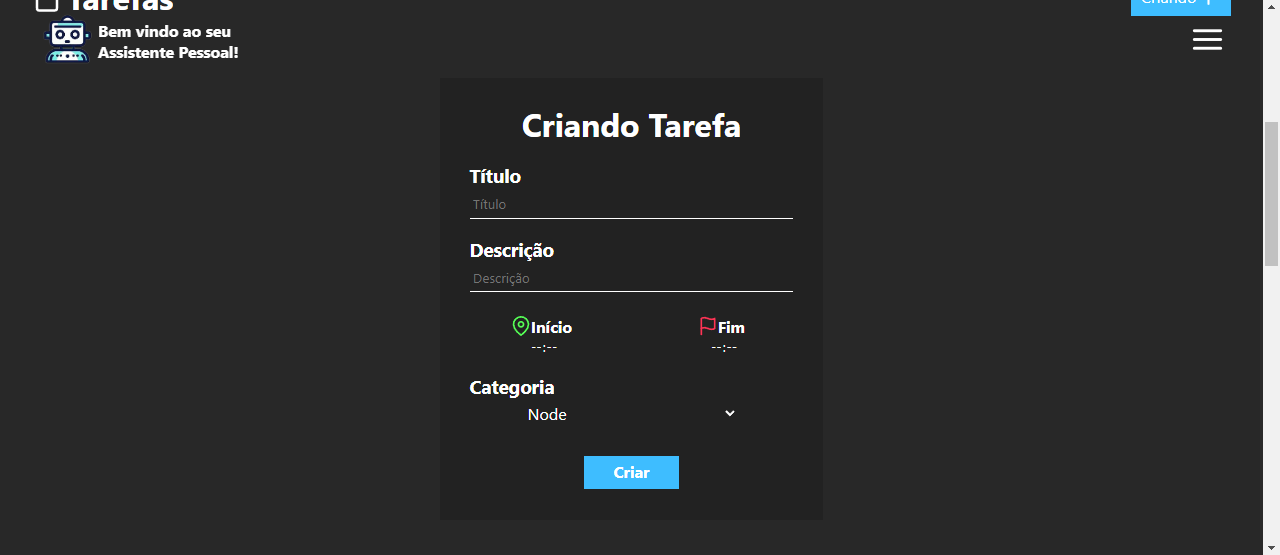
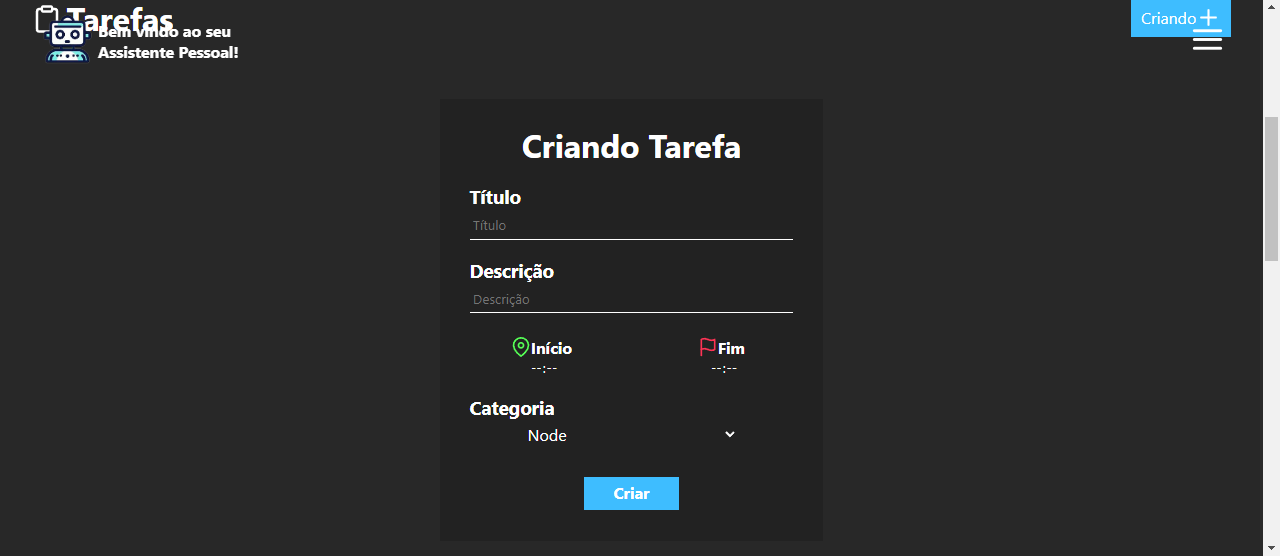
1.6
Upload final das imagens do projeto e ajuste na tela tarefas no componente "CategoriesContainer" dentro do botão "ButtonCreate", atribuindo a função handleCloseCreatingAndEditing()

diff --git a/src/Components/Tasks/CategoriesContainer/index.js b/src/Components/Tasks/CategoriesContainer/index.js
@@ -13,7 +13,7 @@ export default function CategoriesContainer({ }) {
 
     setUpdatingCategorie()
     setCreatingCategorie(!creatingCategorie)
-    
+
   }
 
   return (
@@ -24,7 +24,7 @@ export default function CategoriesContainer({ }) {
           <TitleIcon />
           <Title> Categorias </Title>
         </TitleBox>
-        <ButtonCreate onClick={() => setCreatingCategorie(!creatingCategorie)}>
+        <ButtonCreate onClick={() => handleCloseCreatingAndEditing()}>
           <ButtonCreateText>{!!creatingCategorie && !!updatingCategorie ? 'Editando': !!creatingCategorie && !updatingCategorie? 'Criando' : 'Criar'}</ButtonCreateText>
           <ButtonCreateIcon />
         </ButtonCreate>
